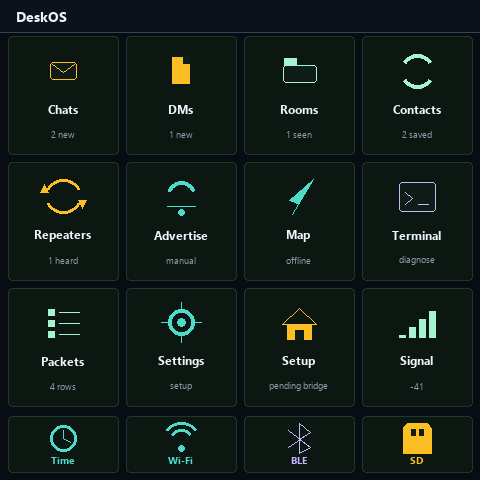
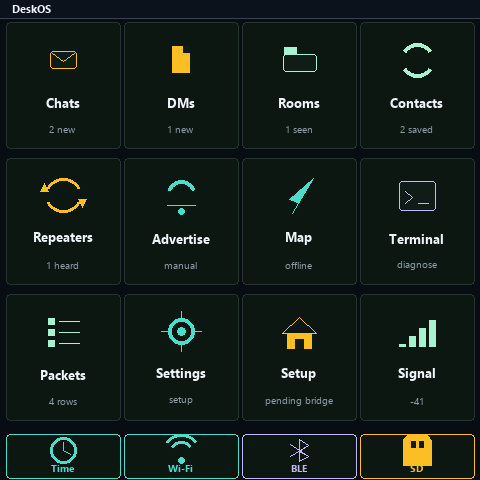
Tighten D1L home launcher layout (#40)
* Tighten D1L home launcher layout

* Shrink D1L home title chrome

diff --git a/main/ui/ui_phase1.c b/main/ui/ui_phase1.c
@@ -54,6 +54,7 @@ static bool s_touch_state_ready = false;
 static portMUX_TYPE s_content_refresh_lock = portMUX_INITIALIZER_UNLOCKED;
 static bool s_started = false;
 static lv_obj_t *s_screen;
+static lv_obj_t *s_top_bar;
 static lv_obj_t *s_content;
 static lv_obj_t *s_title_label;
 static lv_obj_t *s_status_label;
@@ -1279,6 +1280,15 @@ static void update_chrome(const d1l_app_snapshot_t *snapshot)
     const d1l_ui_chrome_layout_t layout =
         d1l_ui_chrome_layout_for_screen(d1l_ui_navigation_active());
     lv_label_set_text(s_title_label, layout.title);
+    if (s_top_bar) {
+        lv_obj_set_size(s_top_bar, 480, layout.content_y);
+        lv_obj_set_style_pad_all(s_top_bar, layout.header_detail_visible ? 8 : 1, 0);
+    }
+    if (layout.header_detail_visible) {
+        lv_obj_align(s_title_label, LV_ALIGN_LEFT_MID, 2, 0);
+    } else {
+        lv_obj_align(s_title_label, LV_ALIGN_TOP_LEFT, 10, 0);
+    }
     set_object_hidden(s_status_label, !layout.header_detail_visible);
     set_object_hidden(s_identity_label, !layout.header_detail_visible);
     set_object_hidden(s_lock_button, !layout.header_detail_visible);
@@ -1559,11 +1569,14 @@ static lv_obj_t *render_home_status_icon(lv_obj_t *parent,
                                          lv_event_cb_t cb,
                                          void *user_data)
 {
-    lv_obj_t *chip = create_panel(parent, x, y, w, 56);
+    lv_obj_t *chip = create_panel(parent, x, y, w, 44);
     if (!chip) {
         return NULL;
     }
-    lv_obj_set_style_pad_all(chip, 4, 0);
+    lv_obj_set_style_radius(chip, 4, 0);
+    lv_obj_set_style_bg_color(chip, lv_color_hex(0x0F1712), 0);
+    lv_obj_set_style_border_color(chip, lv_color_hex(accent), 0);
+    lv_obj_set_style_pad_all(chip, 2, 0);
     if (cb) {
         lv_obj_add_flag(chip, LV_OBJ_FLAG_CLICKABLE);
         lv_obj_add_event_cb(chip, cb, LV_EVENT_CLICKED, user_data);
@@ -1572,12 +1585,12 @@ static lv_obj_t *render_home_status_icon(lv_obj_t *parent,
     obj_set_style_text_font_if(icon_label, &lv_font_montserrat_24);
     label_set_dot_width(icon_label, w - 8);
     lv_obj_set_style_text_align(icon_label, LV_TEXT_ALIGN_CENTER, 0);
-    obj_set_pos_if(icon_label, 4, 4);
+    obj_set_pos_if(icon_label, 4, 0);
 
     lv_obj_t *label = create_label(chip, title, accent);
     label_set_dot_width(label, w - 8);
     lv_obj_set_style_text_align(label, LV_TEXT_ALIGN_CENTER, 0);
-    obj_set_pos_if(label, 4, 38);
+    obj_set_pos_if(label, 4, 28);
     return chip;
 }
 
@@ -1591,7 +1604,7 @@ static lv_obj_t *render_home_launcher_tile(lv_obj_t *parent,
                                            lv_event_cb_t cb,
                                            void *user_data)
 {
-    lv_obj_t *tile = create_panel(parent, x, y, 110, 118);
+    lv_obj_t *tile = create_panel(parent, x, y, 114, 126);
     if (!tile) {
         return NULL;
     }
@@ -1606,19 +1619,19 @@ static lv_obj_t *render_home_launcher_tile(lv_obj_t *parent,
 
     lv_obj_t *icon_label = create_label(tile, icon, accent);
     obj_set_style_text_font_if(icon_label, &lv_font_montserrat_24);
-    label_set_dot_width(icon_label, 98);
+    label_set_dot_width(icon_label, 102);
     lv_obj_set_style_text_align(icon_label, LV_TEXT_ALIGN_CENTER, 0);
-    obj_set_pos_if(icon_label, 0, 16);
+    obj_set_pos_if(icon_label, 0, 14);
 
     lv_obj_t *title_label = create_label(tile, title, 0xF4F7FB);
-    label_set_dot_width(title_label, 98);
+    label_set_dot_width(title_label, 102);
     lv_obj_set_style_text_align(title_label, LV_TEXT_ALIGN_CENTER, 0);
-    obj_set_pos_if(title_label, 0, 62);
+    obj_set_pos_if(title_label, 0, 68);
 
     lv_obj_t *detail_label = create_label(tile, detail, 0x8EA0AE);
-    label_set_dot_width(detail_label, 98);
+    label_set_dot_width(detail_label, 102);
     lv_obj_set_style_text_align(detail_label, LV_TEXT_ALIGN_CENTER, 0);
-    obj_set_pos_if(detail_label, 0, 88);
+    obj_set_pos_if(detail_label, 0, 96);
     return tile;
 }
 
@@ -1713,52 +1726,52 @@ static void render_home(const d1l_app_snapshot_t *snapshot)
 
     snprintf(value, sizeof(value), "%lu", (unsigned long)snapshot->public_unread_count);
     snprintf(detail, sizeof(detail), "%s new", value);
-    render_home_launcher_tile(s_content, 8, 6, LV_SYMBOL_ENVELOPE, "Chats", detail,
+    render_home_launcher_tile(s_content, 6, 4, LV_SYMBOL_ENVELOPE, "Chats", detail,
                               snapshot->public_unread_count ? 0xFBBF24 : 0x00C2FF,
                               open_messages_public_event_cb, NULL);
 
     snprintf(value, sizeof(value), "%lu", (unsigned long)snapshot->dm_unread_count);
     snprintf(detail, sizeof(detail), "%s new", value);
-    render_home_launcher_tile(s_content, 126, 6, LV_SYMBOL_FILE, "DMs", detail,
+    render_home_launcher_tile(s_content, 124, 4, LV_SYMBOL_FILE, "DMs", detail,
                               snapshot->dm_unread_count ? 0xFBBF24 : 0xA7F3D0,
                               open_messages_dm_event_cb, NULL);
 
     snprintf(detail, sizeof(detail), "%lu seen", (unsigned long)snapshot->recent_room_count);
-    render_home_launcher_tile(s_content, 244, 6, LV_SYMBOL_DIRECTORY, "Rooms", detail,
+    render_home_launcher_tile(s_content, 242, 4, LV_SYMBOL_DIRECTORY, "Rooms", detail,
                               snapshot->recent_room_count ? 0x5EEAD4 : 0x8EA0AE,
                               open_mesh_roles_event_cb, NULL);
 
     snprintf(detail, sizeof(detail), "%lu saved", (unsigned long)snapshot->contact_count);
-    render_home_launcher_tile(s_content, 362, 6, LV_SYMBOL_CALL, "Contacts", detail,
+    render_home_launcher_tile(s_content, 360, 4, LV_SYMBOL_CALL, "Contacts", detail,
                               snapshot->contact_count ? 0x5EEAD4 : 0x8EA0AE,
                               request_tab_event_cb, (void *)(uintptr_t)D1L_UI_TAB_NODES);
 
     snprintf(detail, sizeof(detail), "%lu heard", (unsigned long)snapshot->recent_repeater_count);
-    render_home_launcher_tile(s_content, 8, 130, LV_SYMBOL_REFRESH, "Repeaters", detail,
+    render_home_launcher_tile(s_content, 6, 140, LV_SYMBOL_REFRESH, "Repeaters", detail,
                               snapshot->recent_repeater_count ? 0xFBBF24 : 0x8EA0AE,
                               open_mesh_roles_event_cb, NULL);
 
-    render_home_launcher_tile(s_content, 126, 130, LV_SYMBOL_BELL, "Advertise", "manual",
+    render_home_launcher_tile(s_content, 124, 140, LV_SYMBOL_BELL, "Advertise", "manual",
                               0x00C2FF, open_sheet_event_cb, NULL);
 
-    render_home_launcher_tile(s_content, 244, 130, LV_SYMBOL_GPS, "Map",
+    render_home_launcher_tile(s_content, 242, 140, LV_SYMBOL_GPS, "Map",
                               snapshot->map_tile_cache_ready ? "tiles ready" : "offline",
                               snapshot->map_tile_cache_ready ? 0x5EEAD4 : 0x00C2FF,
                               request_tab_event_cb, (void *)(uintptr_t)D1L_UI_TAB_MAP);
 
-    render_home_launcher_tile(s_content, 362, 130, LV_SYMBOL_KEYBOARD, "Terminal", "diagnose",
+    render_home_launcher_tile(s_content, 360, 140, LV_SYMBOL_KEYBOARD, "Terminal", "diagnose",
                               0xC4B5FD, open_diagnostics_sheet_event_cb, NULL);
 
     snprintf(detail, sizeof(detail), "%lu rows", (unsigned long)snapshot->packet_count);
-    render_home_launcher_tile(s_content, 8, 254, LV_SYMBOL_LIST, "Packets", detail,
+    render_home_launcher_tile(s_content, 6, 276, LV_SYMBOL_LIST, "Packets", detail,
                               snapshot->packet_count ? 0x5EEAD4 : 0x8EA0AE,
                               request_tab_event_cb, (void *)(uintptr_t)D1L_UI_TAB_PACKETS);
 
-    render_home_launcher_tile(s_content, 126, 254, LV_SYMBOL_SETTINGS, "Settings", "setup",
+    render_home_launcher_tile(s_content, 124, 276, LV_SYMBOL_SETTINGS, "Settings", "setup",
                               0x00C2FF, request_tab_event_cb,
                               (void *)(uintptr_t)D1L_UI_TAB_SETTINGS);
 
-    render_home_launcher_tile(s_content, 244, 254, LV_SYMBOL_HOME, "Setup", home_sd_state(snapshot),
+    render_home_launcher_tile(s_content, 242, 276, LV_SYMBOL_HOME, "Setup", home_sd_state(snapshot),
                               snapshot->storage_data_enabled ? 0x5EEAD4 :
                               (snapshot->storage_setup_required ? 0xFBBF24 : 0x8EA0AE),
                               open_storage_sheet_event_cb, NULL);
@@ -1768,19 +1781,19 @@ static void render_home(const d1l_app_snapshot_t *snapshot)
     } else {
         snprintf(detail, sizeof(detail), "waiting");
     }
-    render_home_launcher_tile(s_content, 362, 254, LV_SYMBOL_VOLUME_MAX, "Signal", detail,
+    render_home_launcher_tile(s_content, 360, 276, LV_SYMBOL_VOLUME_MAX, "Signal", detail,
                               snapshot->signal_summary.sample_count ? 0x5EEAD4 : 0x8EA0AE,
                               open_mesh_roles_event_cb, NULL);
 
-    render_home_status_icon(s_content, 8, 386, 110, LV_SYMBOL_REFRESH, "Time",
+    render_home_status_icon(s_content, 6, 416, 114, LV_SYMBOL_REFRESH, "Time",
                             snapshot->time_available ? 0x5EEAD4 : 0x00C2FF, NULL, NULL);
-    render_home_status_icon(s_content, 126, 386, 110, LV_SYMBOL_WIFI, "Wi-Fi",
+    render_home_status_icon(s_content, 124, 416, 114, LV_SYMBOL_WIFI, "Wi-Fi",
                             snapshot->wifi_enabled ? 0x5EEAD4 : 0x00C2FF,
                             open_wifi_sheet_event_cb, NULL);
-    render_home_status_icon(s_content, 244, 386, 110, LV_SYMBOL_BLUETOOTH, "BLE",
+    render_home_status_icon(s_content, 242, 416, 114, LV_SYMBOL_BLUETOOTH, "BLE",
                             snapshot->ble_companion_enabled ? 0xA7F3D0 : 0xC4B5FD,
                             open_ble_sheet_event_cb, NULL);
-    render_home_status_icon(s_content, 362, 386, 110, LV_SYMBOL_SD_CARD, "SD",
+    render_home_status_icon(s_content, 360, 416, 114, LV_SYMBOL_SD_CARD, "SD",
                             snapshot->storage_data_enabled ? 0x5EEAD4 :
                             0xFBBF24,
                             open_storage_sheet_event_cb, NULL);
@@ -6885,6 +6898,7 @@ static void create_top_bar(lv_obj_t *screen)
     if (!bar) {
         return;
     }
+    s_top_bar = bar;
     lv_obj_set_size(bar, 480, 56);
     lv_obj_set_pos(bar, 0, 0);
     lv_obj_set_style_bg_color(bar, lv_color_hex(0x071018), 0);

diff --git a/tools/ui_simulator.py b/tools/ui_simulator.py
@@ -15,7 +15,7 @@ from PIL import Image, ImageDraw, ImageFont
 WIDTH = 480
 HEIGHT = 480
 TOP_BAR_H = 54
-HOME_TOP_BAR_H = 32
+HOME_TOP_BAR_H = 18
 DOCK_Y = 420
 DOCK_H = 60
 MIN_TOUCH_TARGET = 44
@@ -655,7 +655,7 @@ def role_badge_color(role: str) -> tuple[int, int, int]:
 def draw_top_bar(s: Surface, snap: Snapshot, *, compact: bool = False):
     if compact:
         s.rect((0, 0, WIDTH, HOME_TOP_BAR_H), (11, 18, 28))
-        s.text("DeskOS", (16, 7, 150, 28), 14, TEXT, True)
+        s.text("DeskOS", (12, 1, 150, 17), 11, TEXT, True)
         s.line(((0, HOME_TOP_BAR_H), (WIDTH, HOME_TOP_BAR_H)))
         return
     s.rect((0, 0, WIDTH, TOP_BAR_H), (11, 18, 28))
@@ -810,13 +810,17 @@ def draw_launcher_icon(s: Surface, box: tuple[int, int, int, int], icon: str, co
         s.draw.arc((cx - 13, cy - 9, cx + 13, cy + 17), 220, 320, fill=color, width=3)
         s.draw.ellipse((cx - 3, cy + 7, cx + 3, cy + 13), fill=color)
     elif icon == "ble":
-        s.line(((cx, cy - 15), (cx, cy + 15)), color)
-        s.line(((cx, cy - 15), (cx + 11, cy - 6)), color)
-        s.line(((cx + 11, cy - 6), (cx, cy + 1)), color)
-        s.line(((cx, cy + 1), (cx + 11, cy + 9)), color)
-        s.line(((cx + 11, cy + 9), (cx, cy + 15)), color)
-        s.line(((cx - 11, cy - 8), (cx + 11, cy + 9)), color)
-        s.line(((cx - 11, cy + 9), (cx + 11, cy - 6)), color)
+        span = min(15, max(8, h // 2 - 2))
+        arm = min(11, max(7, w // 5))
+        upper = max(4, span // 2)
+        lower = max(5, span // 2 + 1)
+        s.line(((cx, cy - span), (cx, cy + span)), color)
+        s.line(((cx, cy - span), (cx + arm, cy - upper)), color)
+        s.line(((cx + arm, cy - upper), (cx, cy + 1)), color)
+        s.line(((cx, cy + 1), (cx + arm, cy + lower)), color)
+        s.line(((cx + arm, cy + lower), (cx, cy + span)), color)
+        s.line(((cx - arm, cy - lower), (cx + arm, cy + lower)), color)
+        s.line(((cx - arm, cy + lower), (cx + arm, cy - upper)), color)
     elif icon == "sd":
         s.draw.polygon(((cx - 10, cy - 15), (cx + 10, cy - 15), (cx + 14, cy - 10), (cx + 14, cy + 15), (cx - 14, cy + 15), (cx - 14, cy - 11)), fill=color)
         s.rect((cx - 6, cy - 9, cx - 2, cy - 3), (15, 28, 24))
@@ -838,9 +842,9 @@ def draw_launcher_tile(
 ):
     x0, y0, x1, y1 = box
     s.round_rect(box, (13, 23, 18), (31, 55, 46), 4)
-    draw_launcher_icon(s, (x0 + 24, y0 + 10, x1 - 24, y0 + 58), icon, color)
-    s.text(label, (x0 + 5, y0 + 64, x1 - 5, y0 + 84), 12, TEXT, True, "center")
-    s.text(detail, (x0 + 5, y0 + 86, x1 - 5, y1 - 6), 9, MUTED, False, "center")
+    draw_launcher_icon(s, (x0 + 22, y0 + 12, x1 - 22, y0 + 62), icon, color)
+    s.text(label, (x0 + 5, y0 + 70, x1 - 5, y0 + 92), 13, TEXT, True, "center")
+    s.text(detail, (x0 + 5, y0 + 96, x1 - 5, y1 - 7), 10, MUTED, False, "center")
     s.touch_target(label, box, kind="launcher_tile", action=action, destination=destination)
 
 
@@ -855,9 +859,9 @@ def draw_status_icon(
     destination: str | None = None,
 ):
     x0, y0, x1, y1 = box
-    s.round_rect(box, (13, 23, 18), (31, 55, 46), 4)
-    draw_launcher_icon(s, (x0 + 34, y0 + 7, x1 - 34, y0 + 37), icon, color)
-    s.text(label, (x0 + 5, y0 + 38, x1 - 5, y1 - 5), 10, color, True, "center")
+    s.round_rect(box, (13, 23, 18), color, 4)
+    draw_launcher_icon(s, (x0 + 34, y0 + 3, x1 - 34, y0 + 29), icon, color)
+    s.text(label, (x0 + 5, y0 + 28, x1 - 5, y1 - 3), 10, color, True, "center")
     if action or destination:
         s.touch_target(label, box, kind="status_icon", action=action, destination=destination)
 
@@ -941,26 +945,26 @@ def draw_row(
 
 def draw_home_body(s: Surface, snap: Snapshot):
     tiles = (
-        ((8, 36, 118, 154), "chat", "Chats", f"{snap.unread_public} new", AMBER if snap.unread_public else ACCENT, "open_messages_public", "messages"),
-        ((126, 36, 236, 154), "dm", "DMs", f"{snap.unread_dm} new", AMBER if snap.unread_dm else GREEN, "open_messages_dm", "messages_dm"),
-        ((244, 36, 354, 154), "folder", "Rooms", f"{len(snap.rooms)} seen", GREEN if snap.rooms else MUTED, "open_mesh_roles", "mesh_roles_sheet"),
-        ((362, 36, 472, 154), "phone", "Contacts", f"{len(snap.contacts)} saved", GREEN if snap.contacts else MUTED, "open_nodes", "nodes"),
-        ((8, 162, 118, 280), "repeat", "Repeaters", f"{len(snap.repeaters)} heard", AMBER if snap.repeaters else MUTED, "open_repeaters", "mesh_roles_sheet"),
-        ((126, 162, 236, 280), "bell", "Advertise", "manual", ACCENT, "open_advert_sheet", "advert_sheet"),
-        ((244, 162, 354, 280), "map", "Map", "tiles" if snap.map_tile_cache_ready else "offline", GREEN if snap.map_tile_cache_ready else ACCENT, "open_map", "map"),
-        ((362, 162, 472, 280), "terminal", "Terminal", "diagnose", VIOLET, "open_diagnostics", "diagnostics_sheet"),
-        ((8, 288, 118, 406), "packets", "Packets", f"{len(snap.packets)} rows", GREEN if snap.packets else MUTED, "open_packets", "packets"),
-        ((126, 288, 236, 406), "settings", "Settings", "setup", ACCENT, "open_settings", "settings"),
-        ((244, 288, 354, 406), "setup", "Setup", snap.storage_state, GREEN if snap.storage_backend != "NVS fallback" else AMBER, "open_storage_setup", "storage_setup_sheet"),
-        ((362, 288, 472, 406), "signal", "Signal", snap.latest_signal.split()[0] if snap.latest_signal else "waiting", GREEN if snap.latest_signal else MUTED, "open_signal", "mesh_roles_sheet"),
+        ((6, 22, 120, 148), "chat", "Chats", f"{snap.unread_public} new", AMBER if snap.unread_public else ACCENT, "open_messages_public", "messages"),
+        ((124, 22, 238, 148), "dm", "DMs", f"{snap.unread_dm} new", AMBER if snap.unread_dm else GREEN, "open_messages_dm", "messages_dm"),
+        ((242, 22, 356, 148), "folder", "Rooms", f"{len(snap.rooms)} seen", GREEN if snap.rooms else MUTED, "open_mesh_roles", "mesh_roles_sheet"),
+        ((360, 22, 474, 148), "phone", "Contacts", f"{len(snap.contacts)} saved", GREEN if snap.contacts else MUTED, "open_nodes", "nodes"),
+        ((6, 158, 120, 284), "repeat", "Repeaters", f"{len(snap.repeaters)} heard", AMBER if snap.repeaters else MUTED, "open_repeaters", "mesh_roles_sheet"),
+        ((124, 158, 238, 284), "bell", "Advertise", "manual", ACCENT, "open_advert_sheet", "advert_sheet"),
+        ((242, 158, 356, 284), "map", "Map", "tiles" if snap.map_tile_cache_ready else "offline", GREEN if snap.map_tile_cache_ready else ACCENT, "open_map", "map"),
+        ((360, 158, 474, 284), "terminal", "Terminal", "diagnose", VIOLET, "open_diagnostics", "diagnostics_sheet"),
+        ((6, 294, 120, 420), "packets", "Packets", f"{len(snap.packets)} rows", GREEN if snap.packets else MUTED, "open_packets", "packets"),
+        ((124, 294, 238, 420), "settings", "Settings", "setup", ACCENT, "open_settings", "settings"),
+        ((242, 294, 356, 420), "setup", "Setup", snap.storage_state, GREEN if snap.storage_backend != "NVS fallback" else AMBER, "open_storage_setup", "storage_setup_sheet"),
+        ((360, 294, 474, 420), "signal", "Signal", snap.latest_signal.split()[0] if snap.latest_signal else "waiting", GREEN if snap.latest_signal else MUTED, "open_signal", "mesh_roles_sheet"),
     )
     for box, icon, label, detail, color, action, destination in tiles:
         draw_launcher_tile(s, box, icon, label, detail, color, action=action, destination=destination)
 
-    draw_status_icon(s, (8, 416, 118, 472), "time", "Time", ACCENT)
-    draw_status_icon(s, (126, 416, 236, 472), "wifi", "Wi-Fi", ACCENT, action="open_wifi_settings", destination="wifi_setup_sheet")
-    draw_status_icon(s, (244, 416, 354, 472), "ble", "BLE", VIOLET, action="open_ble_settings", destination="ble_setup_sheet")
-    draw_status_icon(s, (362, 416, 472, 472), "sd", "SD", GREEN if snap.storage_backend != "NVS fallback" else AMBER, action="open_storage_setup", destination="storage_setup_sheet")
+    draw_status_icon(s, (6, 434, 120, 478), "time", "Time", ACCENT)
+    draw_status_icon(s, (124, 434, 238, 478), "wifi", "Wi-Fi", ACCENT, action="open_wifi_settings", destination="wifi_setup_sheet")
+    draw_status_icon(s, (242, 434, 356, 478), "ble", "BLE", VIOLET, action="open_ble_settings", destination="ble_setup_sheet")
+    draw_status_icon(s, (360, 434, 474, 478), "sd", "SD", GREEN if snap.storage_backend != "NVS fallback" else AMBER, action="open_storage_setup", destination="storage_setup_sheet")
 
 
 def render_home(s: Surface, snap: Snapshot):

diff --git a/tests/test_ui_simulator.py b/tests/test_ui_simulator.py
@@ -125,6 +125,11 @@ def test_ui_simulator_covers_current_touch_surfaces(tmp_path):
     } <= labels_by_view["home"]
     assert "DeskOS" in labels_by_view["home"]
     assert "Mesh ready, listening" not in labels_by_view["home"]
+    assert "D1L Desk" not in labels_by_view["home"]
+    assert not any(label.startswith("--:--  Mesh") for label in labels_by_view["home"])
+    assert ui_simulator.HOME_TOP_BAR_H == 18
+    assert "RX" not in labels_by_view["home"]
+    assert "TX" not in labels_by_view["home"]
     assert not any(target["kind"] == "dock_tab" for target in views_by_name["home"]["touch_targets"])
     for view_name in ("messages", "messages_dm", "nodes", "map", "packets", "settings"):
         assert any(target["kind"] == "dock_tab" for target in views_by_name[view_name]["touch_targets"])
@@ -271,9 +276,14 @@ def test_ui_simulator_reports_touch_targets_and_flows(tmp_path):
     assert not any(target["kind"] == "dock_tab" for target in views["compose_sheet"]["touch_targets"])
     assert not any(target["kind"] == "dock_tab" for target in views["home"]["touch_targets"])
     assert actions_by_view["home"]["open_wifi_settings"]["kind"] == "status_icon"
-    assert actions_by_view["home"]["open_wifi_settings"]["visual_box"][1] >= 416
+    assert actions_by_view["home"]["open_wifi_settings"]["visual_box"][1] >= 434
+    assert actions_by_view["home"]["open_wifi_settings"]["height"] >= ui_simulator.MIN_TOUCH_TARGET
+    assert actions_by_view["home"]["open_ble_settings"]["kind"] == "status_icon"
+    assert actions_by_view["home"]["open_ble_settings"]["visual_box"][1] >= 434
     assert actions_by_view["home"]["open_storage_setup"]["kind"] == "status_icon"
-    assert actions_by_view["home"]["open_storage_setup"]["visual_box"][1] >= 416
+    assert actions_by_view["home"]["open_storage_setup"]["visual_box"][1] >= 434
+    assert actions_by_view["home"]["open_messages_public"]["visual_box"] == [6, 22, 120, 148]
+    assert actions_by_view["home"]["open_packets"]["visual_box"] == [6, 294, 120, 420]
     for docked_view in ("messages", "nodes", "map", "packets", "settings"):
         assert any(target["kind"] == "dock_tab" for target in views[docked_view]["touch_targets"]), docked_view
     assert actions_by_view["home"]["open_messages_public"]["destination"] == "messages"

diff --git a/tests/test_ui_shell_contract.py b/tests/test_ui_shell_contract.py
@@ -131,8 +131,11 @@ def test_phase3_shell_replaces_diagnostic_tile_home():
     assert "set_dock_hidden(!layout.dock_visible)" in source
     assert "lv_obj_set_pos(s_content, 0, layout.content_y)" in source
     assert "lv_obj_set_size(s_content, 480, layout.content_height)" in source
-    assert ".content_y = 32" in chrome
-    assert ".content_height = 448" in chrome
+    assert "lv_obj_set_size(s_top_bar, 480, layout.content_y)" in source
+    assert "layout.header_detail_visible ? 8 : 1" in source
+    assert "lv_obj_align(s_title_label, LV_ALIGN_TOP_LEFT, 10, 0)" in source
+    assert ".content_y = 18" in chrome
+    assert ".content_height = 462" in chrome
     assert ".content_scrollable = false" in chrome
     assert ".dock_visible = false" in chrome
     assert ".header_detail_visible = false" in chrome
@@ -191,12 +194,12 @@ def test_home_screen_is_user_first_companion_dashboard():
     home_body = source.split("static void render_home(const d1l_app_snapshot_t *snapshot)", 1)[1].split(
         "static void render_storage_line", 1
     )[0]
-    assert "render_home_launcher_tile(s_content, 8, 254" in home_body
-    assert "render_home_status_icon(s_content, 8, 386, 110" in home_body
+    assert "render_home_launcher_tile(s_content, 6, 276" in home_body
+    assert "render_home_status_icon(s_content, 6, 416, 114" in home_body
     assert "LV_SYMBOL_WIFI" in home_body
     assert "LV_SYMBOL_BLUETOOTH" in home_body
     assert "LV_SYMBOL_SD_CARD" in home_body
-    home_status_body = home_body.split("render_home_status_icon(s_content, 8, 386, 110", 1)[1]
+    home_status_body = home_body.split("render_home_status_icon(s_content, 6, 416, 114", 1)[1]
     assert "0x00C2FF" in home_status_body
     assert "0xC4B5FD" in home_status_body
     assert "0xFBBF24" in home_status_body

diff --git a/main/ui/ui_chrome.c b/main/ui/ui_chrome.c
@@ -4,8 +4,8 @@ d1l_ui_chrome_layout_t d1l_ui_chrome_layout_for_screen(d1l_ui_screen_t screen)
 {
     if (screen == D1L_UI_SCREEN_HOME) {
         return (d1l_ui_chrome_layout_t){
-            .content_y = 32,
-            .content_height = 448,
+            .content_y = 18,
+            .content_height = 462,
             .content_scrollable = false,
             .dock_visible = false,
             .header_detail_visible = false,